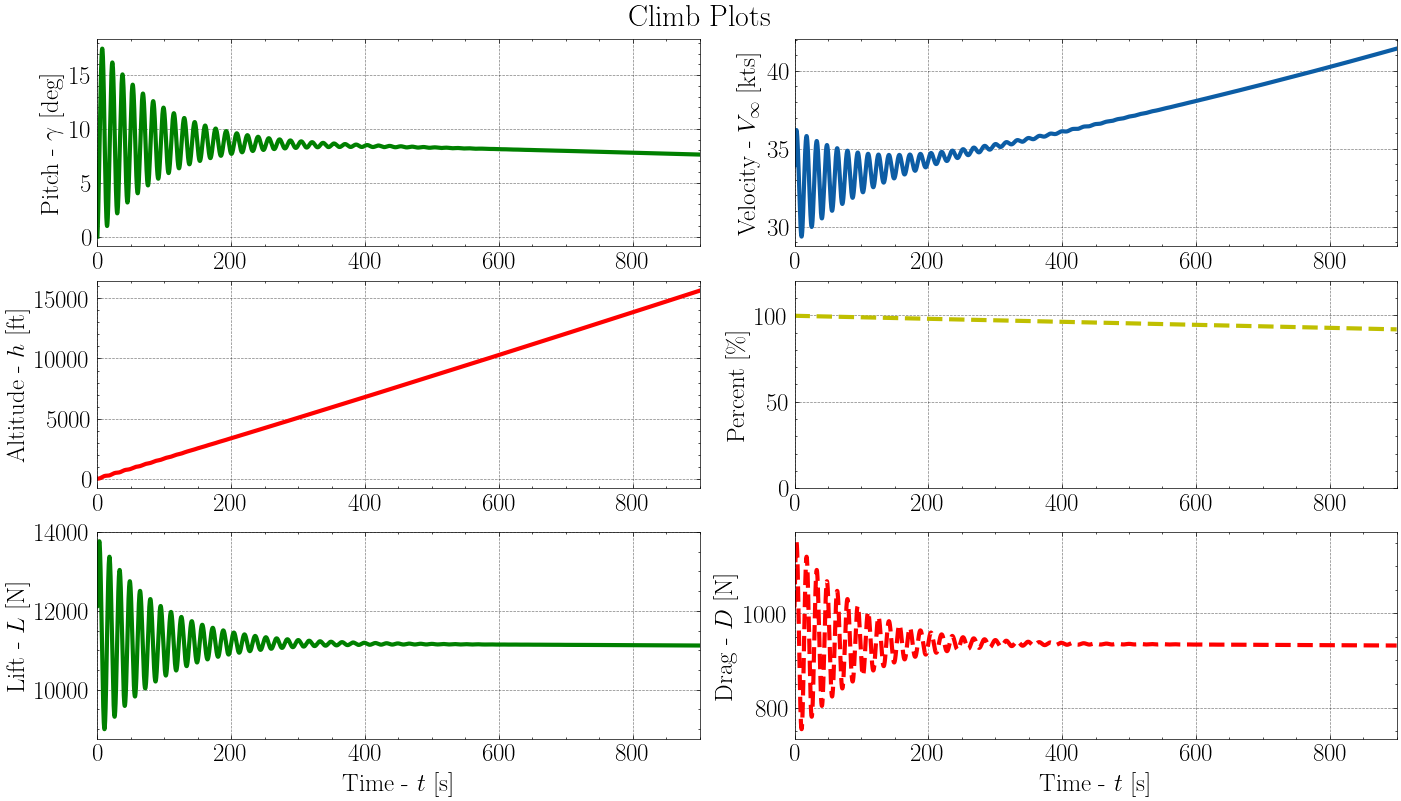
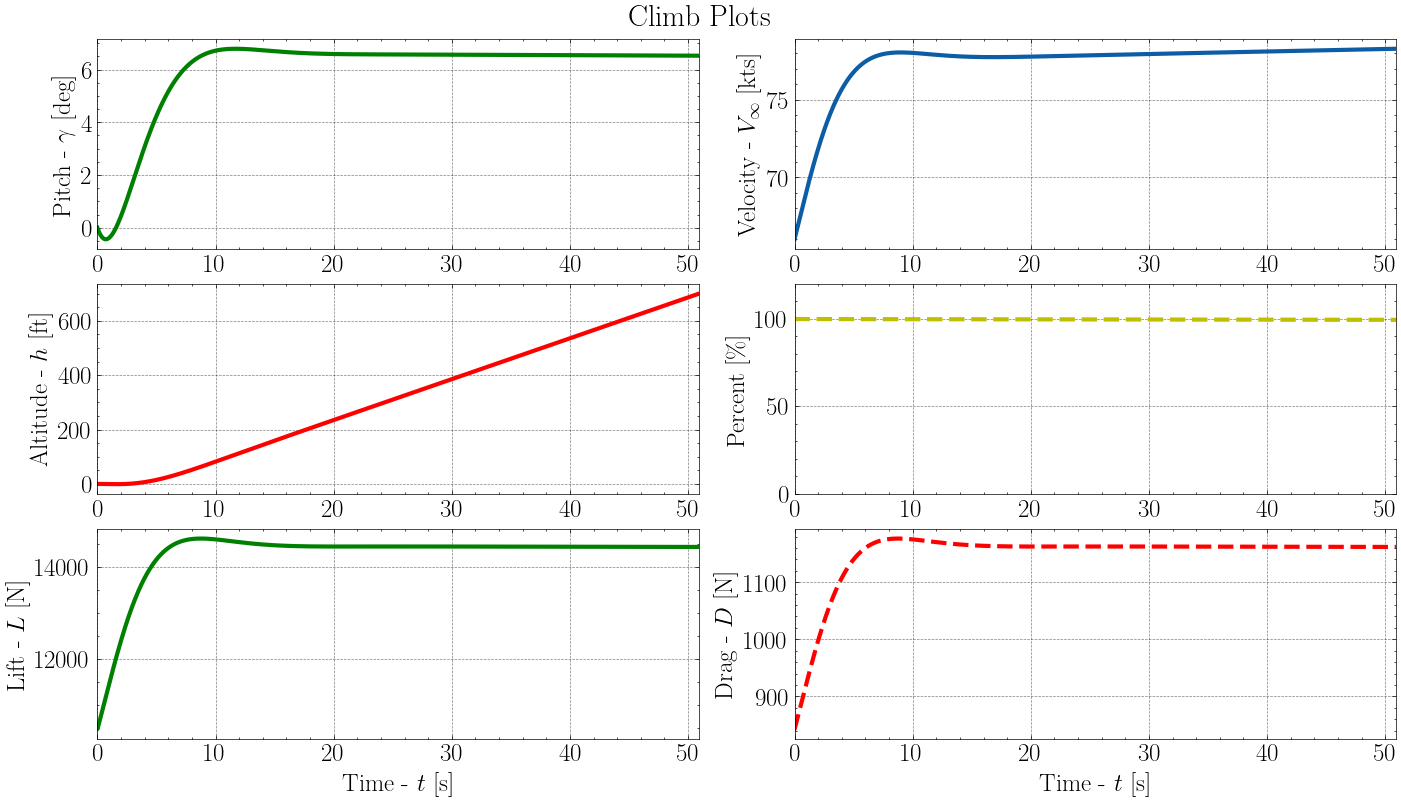
Climb and power set fully functional

diff --git a/Propulsion/Engine.py b/Propulsion/Engine.py
@@ -101,6 +101,12 @@ class EngineTest(Powerplant):
         self.Altitude = 0
         self.Atmosphere_attr()
         # Engine requires the atmospheric information
+        self.RPM = 2700
+        DcDP = (79-72)/(152-135)
+        self.c_BHP = DcDP*(180-152) + 79
+
+        Number = 5000
+        self.PArr = np.linspace(0, self.MaxPower, Number)
     def Thrust_Static(self):
         """
         Using the engine's current propeller, power setting, and altitude this method returns the static thrust. This method requires no inputs.
@@ -123,11 +129,56 @@ class EngineTest(Powerplant):
         
         self.Thrust = Thrust_Static + (3*Thrust_Max-2*Thrust_Static)/Velocity_Max*V + (Thrust_Static-2*Thrust_Max)/Velocity_Max**2*V**2
         return self.Thrust
+    
+    def Set_Power(self, Thrust, V_des, RPM, Velocity_NE, tol = 5, P_min = 0):
+        """
+        Using Thrust, Velocity, and the chosen RPM, we can evaluate what the power output of the engine is in Break Horse Power
+        and set those parameters within the class.
+
+        Parameters
+        ----------
+        Thrust : float or int
+            Desired thrust for the state that the aircraft is in. Used in cases where required thrust is known based on the EOM.
+
+        V_des : float or int
+            Similar to thrust; based on the desired state of the aircraft, we use the aircraft's current velocity
+
+        RPM : float or int
+            This is used to update the aircraft's RPM setting, which is important for determining the fuel drain
+
+        Velocity_NE : float or int
+            Maximum velocity possible for the aircraft
+
+        Returns
+        -------
+        None
+        """
+        Velocity_Max = Velocity_NE
+        Thrust_Max = self.MaxPower/Velocity_Max
+        nu = V_des/Velocity_NE
+        A_2, eta_A = self.Propeller.Get_Area_and_AreaEfficiency()
+        PArr = np.arange(P_min, self.MaxPower + tol*2, tol)
+        # PArr = self.PArr
+        Left = (Thrust + (2*nu**2-3*nu)*PArr/Velocity_Max)/(nu**2-2*nu+1)
+        Right = 0.85*PArr**(2/3)*(2*self.rho*A_2)**(1/3)*eta_A
+        TrueDiff = Left-Right
+        Diff = np.abs(TrueDiff)
+        min_1 = Diff.min()
+        Diffm1 = Diff.tolist()
+        Diffm1.remove(min_1)
+        Diffm1 = np.array(Diffm1)
+        min_2 = Diffm1.min()
+        val_1 = TrueDiff[Diff == min_1][0]
+        val_2 = TrueDiff[Diff == min_2][0]
+        x_percent = (0-val_1)/(val_2-val_1)
+        P_1 = PArr[Diff == min_1][0]
+        P_2 = PArr[Diff == min_2][0]
+        P_est = P_1 + (P_2-P_1)*x_percent
+        self.BreakHorsePower = P_est / (self.eta * self.hp_to_watt)
+
+
     def Get_FuelConsumption(self):
-        DcDP = (79-72)/(152-135)
-        cmax = DcDP*(180-152) + 79
-        cmax_Si = cmax * self.lbf_to_kg / self.h_to_s
-        mdot = -cmax_Si
+        mdot = - self.c_BHP * self.lbf_to_kg / self.h_to_s
         return mdot
     def __setattr__(self, name, value):
         if name == "BreakHorsePower":

diff --git a/Control/MissionPhase/Climb.py b/Control/MissionPhase/Climb.py
@@ -12,7 +12,7 @@ class Climb(MissionPhase):
         self.aircraft = AircraftInstance
         
         
-    def Pattern_Work_Climb_Solve(self, tmax = 15*60, delta_t = 1e-2, Pattern_Altitude = 20000):
+    def Pattern_Work_Climb_Solve(self, tmax = 60, delta_t = 1e-2, Pattern_Altitude = 700):
         """
         For pattern altitudes  it is usually about 700-1000 ft above ground level
         """
@@ -36,7 +36,7 @@ class Climb(MissionPhase):
             dzdt = V_infty*np.sin(Pitch)
             
             dv_dt = (self.Thrust-self.Drag-self.Weight*np.sin(Pitch))/mass
-            dgamma_dt = (self.Lift-self.Weight*np.cos(Pitch))/(mass*V_infty)
+            dgamma_dt = (self.Lift-self.Weight*np.cos(Pitch))/(mass*V_infty) - .6*Pitch
 
             return np.array([dxdt, dydt, dzdt, dv_dt, dgamma_dt])
         
@@ -76,10 +76,9 @@ class Climb(MissionPhase):
         self.Altitude_List = np.array(self.Altitude_List)[z <= Max_z]
         solution = np.block([solution, tArr.reshape(len(tArr),1)])
         print("Time elapsed during climb: {} min".format(self.Times[-1]/60))
-        if not np.any(np.abs(z*self.m_to_ft) > Max_z):
-            # print(z*self.m_to_ft)
-            pass
-            # raise Exception("Simulation did not run long enough to reach pattern altitude. Ajust and increase the time length so that the aircraft can reach pattern altitude.")
+        if not np.any(z > Max_z):
+            print(z*self.m_to_ft)
+            raise Exception("Simulation did not run long enough to reach pattern altitude. Ajust and increase the time length so that the aircraft can reach pattern altitude.")
         self.aircraft.Position = np.array([self.Position_x[-1], self.Position_y[-1], self.Position_z[-1]])
 
     def Pattern_Work_Climb_Solve_OLD(self, tmax = 30*60, delta_t = 1e-2, Pattern_Altitude = 10000):

diff --git a/Aircraft.py b/Aircraft.py
@@ -82,12 +82,14 @@ class Aircraft(Aviation):
         """
         self.Thrust = self.Engine.Get_Thrust(self.V_infty, self.NeverExceedSpeed)
         return self.Thrust
-    def Set_Throttle(self, RPM = "MAX"):
+    def Set_Throttle(self, RPM):
         """
-        Method should not be called at this time.
+        Currently used to set the throttle for a desired thrust. 
         """
-        if RPM.upper() == "MAX":
-            self.Engine.BreakHorsePower = 180.
+        self.Engine.Set_Power(self, self.Thrust, self.V_infty, RPM, self.Velocity_NE, tol = 5, P_min = 0)
+        
+
+
     def FuelDraw(self, delta_t):
         """
         Is used to evaluate the fuel bruned in either weight or in battery charge. Depending on the type of engine on board
@@ -143,6 +145,14 @@ class Aircraft(Aviation):
         BatteryDensity *= BatteryDensity*60**2 # Units in Joules
         self.BatteryMass = MassFactor*self.FuelMass*eta_mass
         self.BatteryEnergy = self.BatteryMass*BatteryDensity
+
+    def Set_Lift(self, Lift):
+        S = self.Wings.S_wing
+        C_L = Lift/(1/2*self.rho*self.V_infty**2*S)
+        self.aircraft.Wings.Set_C_L(self, C_L)
+        C_D = self.Wings.Get_C_D()
+        self.Drag = 1/2*self.rho*self.V_infty**2*S*C_D
+        self.Thrust = self.Drag
 
 
     def Aircraft_Forces(self):
@@ -229,5 +239,6 @@ class Aircraft(Aviation):
         if name == "Altitude":
             if isinstance(value, (float, int)):
                 self.Atmosphere_attr()
+                self.Engine.Altitude = value
             else: 
                 raise TypeError("Cannot accept value of type {}".format(type(value)))

diff --git a/Sizing_And_Geometry/Wings.py b/Sizing_And_Geometry/Wings.py
@@ -22,7 +22,11 @@ class Wings(Aircraft):
         self.AR = self.b_wing**2/self.S_wing
         self.e_0 = 1.78*(1-0.045*self.AR**(0.68)) - 0.64
         self.K = 1/(np.pi*self.e_0*self.AR)
-        self.alpha = 3/180*np.pi
+        self.alpha = 3
+        self.tau = 0
+        self.C_l_alpha = 0.11031
+        self.C_L_alpha = self.C_l_alpha/(1 + self.C_l_alpha/(np.pi*self.AR)*(1 + self.tau))
+        self.C_L_0 = .6
     def Get_C_D(self):
         """
         Method to retrieve the coefficient of lift from the Wings
@@ -62,11 +66,9 @@ class Wings(Aircraft):
         -----
         This uses the airfoil approximation for the drag coefficient, and this should not be used for official end use.
         """
-        C_L_0 = .7463
-        # C_L_0 = .6
-        C_L = C_L_0 + 2*np.pi*(self.alpha)
+        C_L = self.C_L_0 + self.C_L_alpha*self.alpha
         self.C_L = C_L
         return C_L
     def Set_C_L(self, C_L):
-        C_L_0 = .7463
-        self.alpha = (C_L - C_L_0)/(2*np.pi)
+        self.C_L = C_L
+        self.alpha = (C_L - self.C_L_0)/(self.C_L_alpha)

diff --git a/main.py b/main.py
@@ -1,11 +1,26 @@
 import os
 from ImportAPCSE import *
 import numpy as np
+from time import *
 from Plotting import TakeOff_Plot, ClimbPlot, Performance_Climb_Plot, Climb_Velocity_FlightAngle_Plot
 np.set_printoptions(suppress=True)
 
 from PiperArcherIII_Blueprint import ArcherAircraft
 from PiperArcherIII_Blueprint import ElectricArcherAircraft
+
+
+Thrust = ArcherAircraft.Engine.Get_Thrust(100, 180)
+P1 = ArcherAircraft.Engine.Power
+
+t1  = time()
+ArcherAircraft.Engine.Set_Power(Thrust, 100, 2200, 180)
+t2 = time()
+P2 = ArcherAircraft.Engine.Power
+print("Time elapsed: {} seconds".format(t2-t1))
+print("Error in Power: {}".format(P2-P1))
+exit()
+
+
 
 ArcherTakeOffSim = Take_Off(ArcherAircraft)
 ArcherTakeOffSim.Ground_Roll_Sim_ODESolve()

diff --git a/Plotting.py b/Plotting.py
@@ -68,7 +68,7 @@ def ClimbPlot(Climb, title = "Climb Plots"):
     Notes: Images with be stored in the Take_Off_Performance directory in Images_From_Code
     """
     linewidth = 3
-    V_infty = Climb.Velocity_List
+    V_infty = Climb.Velocity_List / sp.constants.knot
     Pitch = Climb.Pitch_List
     Distance = Climb.Position_x / sp.constants.foot
     time = Climb.Times
@@ -77,6 +77,8 @@ def ClimbPlot(Climb, title = "Climb Plots"):
     Percent = Climb.Percent_List
     Lift = Climb.Lift_List
     Drag = Climb.Drag_List
+
+    Thrust = Climb.Thrust_List
 
     fig, axs = plt.subplots(3, 2, constrained_layout=True, figsize = (14,8))
     axs[0,0].plot(time, Pitch*180/np.pi, "g-", linewidth=linewidth)

diff --git a/Control/MissionPhase/Cruise.py b/Control/MissionPhase/Cruise.py
@@ -1,2 +1,17 @@
-class Cruise:
-    pass
+import scipy as sp
+import numpy as np
+from Control.MissionPhase.MissionPhase import MissionPhase
+
+class Cruise(MissionPhase):
+    def __init__(self, AircraftInstance) -> None:
+        self.aircraft = AircraftInstance
+    
+    def Downwind_Solve_1(self, tmax = 60, delta_t = 1e-2):
+        V_des = 90 # knots
+        RPM_Setting = 2200
+        self.Atmosphere_attr()
+        S = self.aircraft.Wings.S_wing
+        V_infty = V_des*self.knots_to_mps
+        Lift = self.aircraft.Weight
+        self.aircraft.Set_Lift(Lift)
+        
